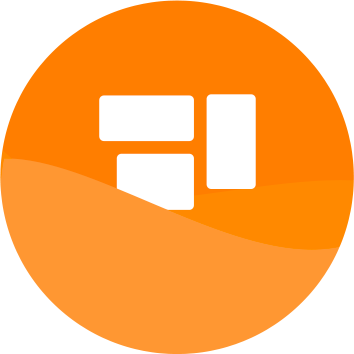
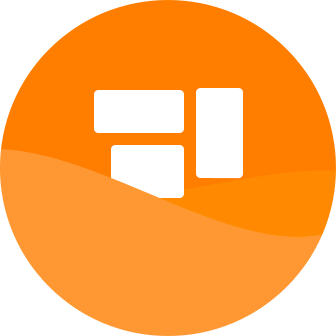
Bug 1118641 - [Stingray][Home] use outline to show the border

diff --git a/tv_apps/tv_shared/components/smart-button/style.css b/tv_apps/tv_shared/components/smart-button/style.css
@@ -21,6 +21,10 @@ smart-button {
   border: none;
   /* the radius is still make button as round even if we don't have border */
   border-radius: 50%;
+  /* 50% is not a real circle because of rounding, we have to use a value larger
+     than 50% */
+  -moz-outline-radius: 60%;
+  outline: transparent 0 solid;
   background-color: rgba(0, 0, 0, 0.5);
   background-repeat: no-repeat;
   background-size: 5.4rem auto;
@@ -169,22 +173,31 @@ smart-button[type="underlined-text"].pressed {
  * App Icons
 **/
 smart-button[type="app-button"] {
-  width: 33.6rem;
-  height: 33.6rem;
+  /* To use 33.4rem instead of to use 33.6rem is to work around the anti-alias
+     pixel. So, the circle is filled by the background almost totally. */
+  width: 33.4rem;
+  height: 33.4rem;
   position: relative;
   overflow: hidden;
-  box-sizing: border-box;
   background-color: transparent;
 }
 
 smart-button[type="app-button"].focused {
   transform: scale(1.4);
-  border: 0.8rem solid #ffffff;
+  /* To use outline will not change the size of button and make the whole button
+     thrilling. */
+  outline: 0.8rem solid #ffffff;
+  box-shadow: inset 0 0 3rem -0.5rem rgba(0,0,0,0.2);
 }
 
 smart-button[type="app-button"].pressed {
-  transform: scale(1.2);
-  border: 1.0rem solid #ffffff;
+  /* While scaling, we may have a gap between outline and icon which may be
+     anti-alias pixel. So, we use scale(1.22) to prevent such kind of case */
+  transform: scale(1.22);
+  /* To use outline will not change the size of button and make the whole button
+     thrilling. */
+  outline: 1.0rem solid #ffffff;
+  box-shadow: inset 0 0 3rem -0.5rem rgba(0,0,0,0.2);
 }
 
 smart-button[type="app-button"].fullsized {
